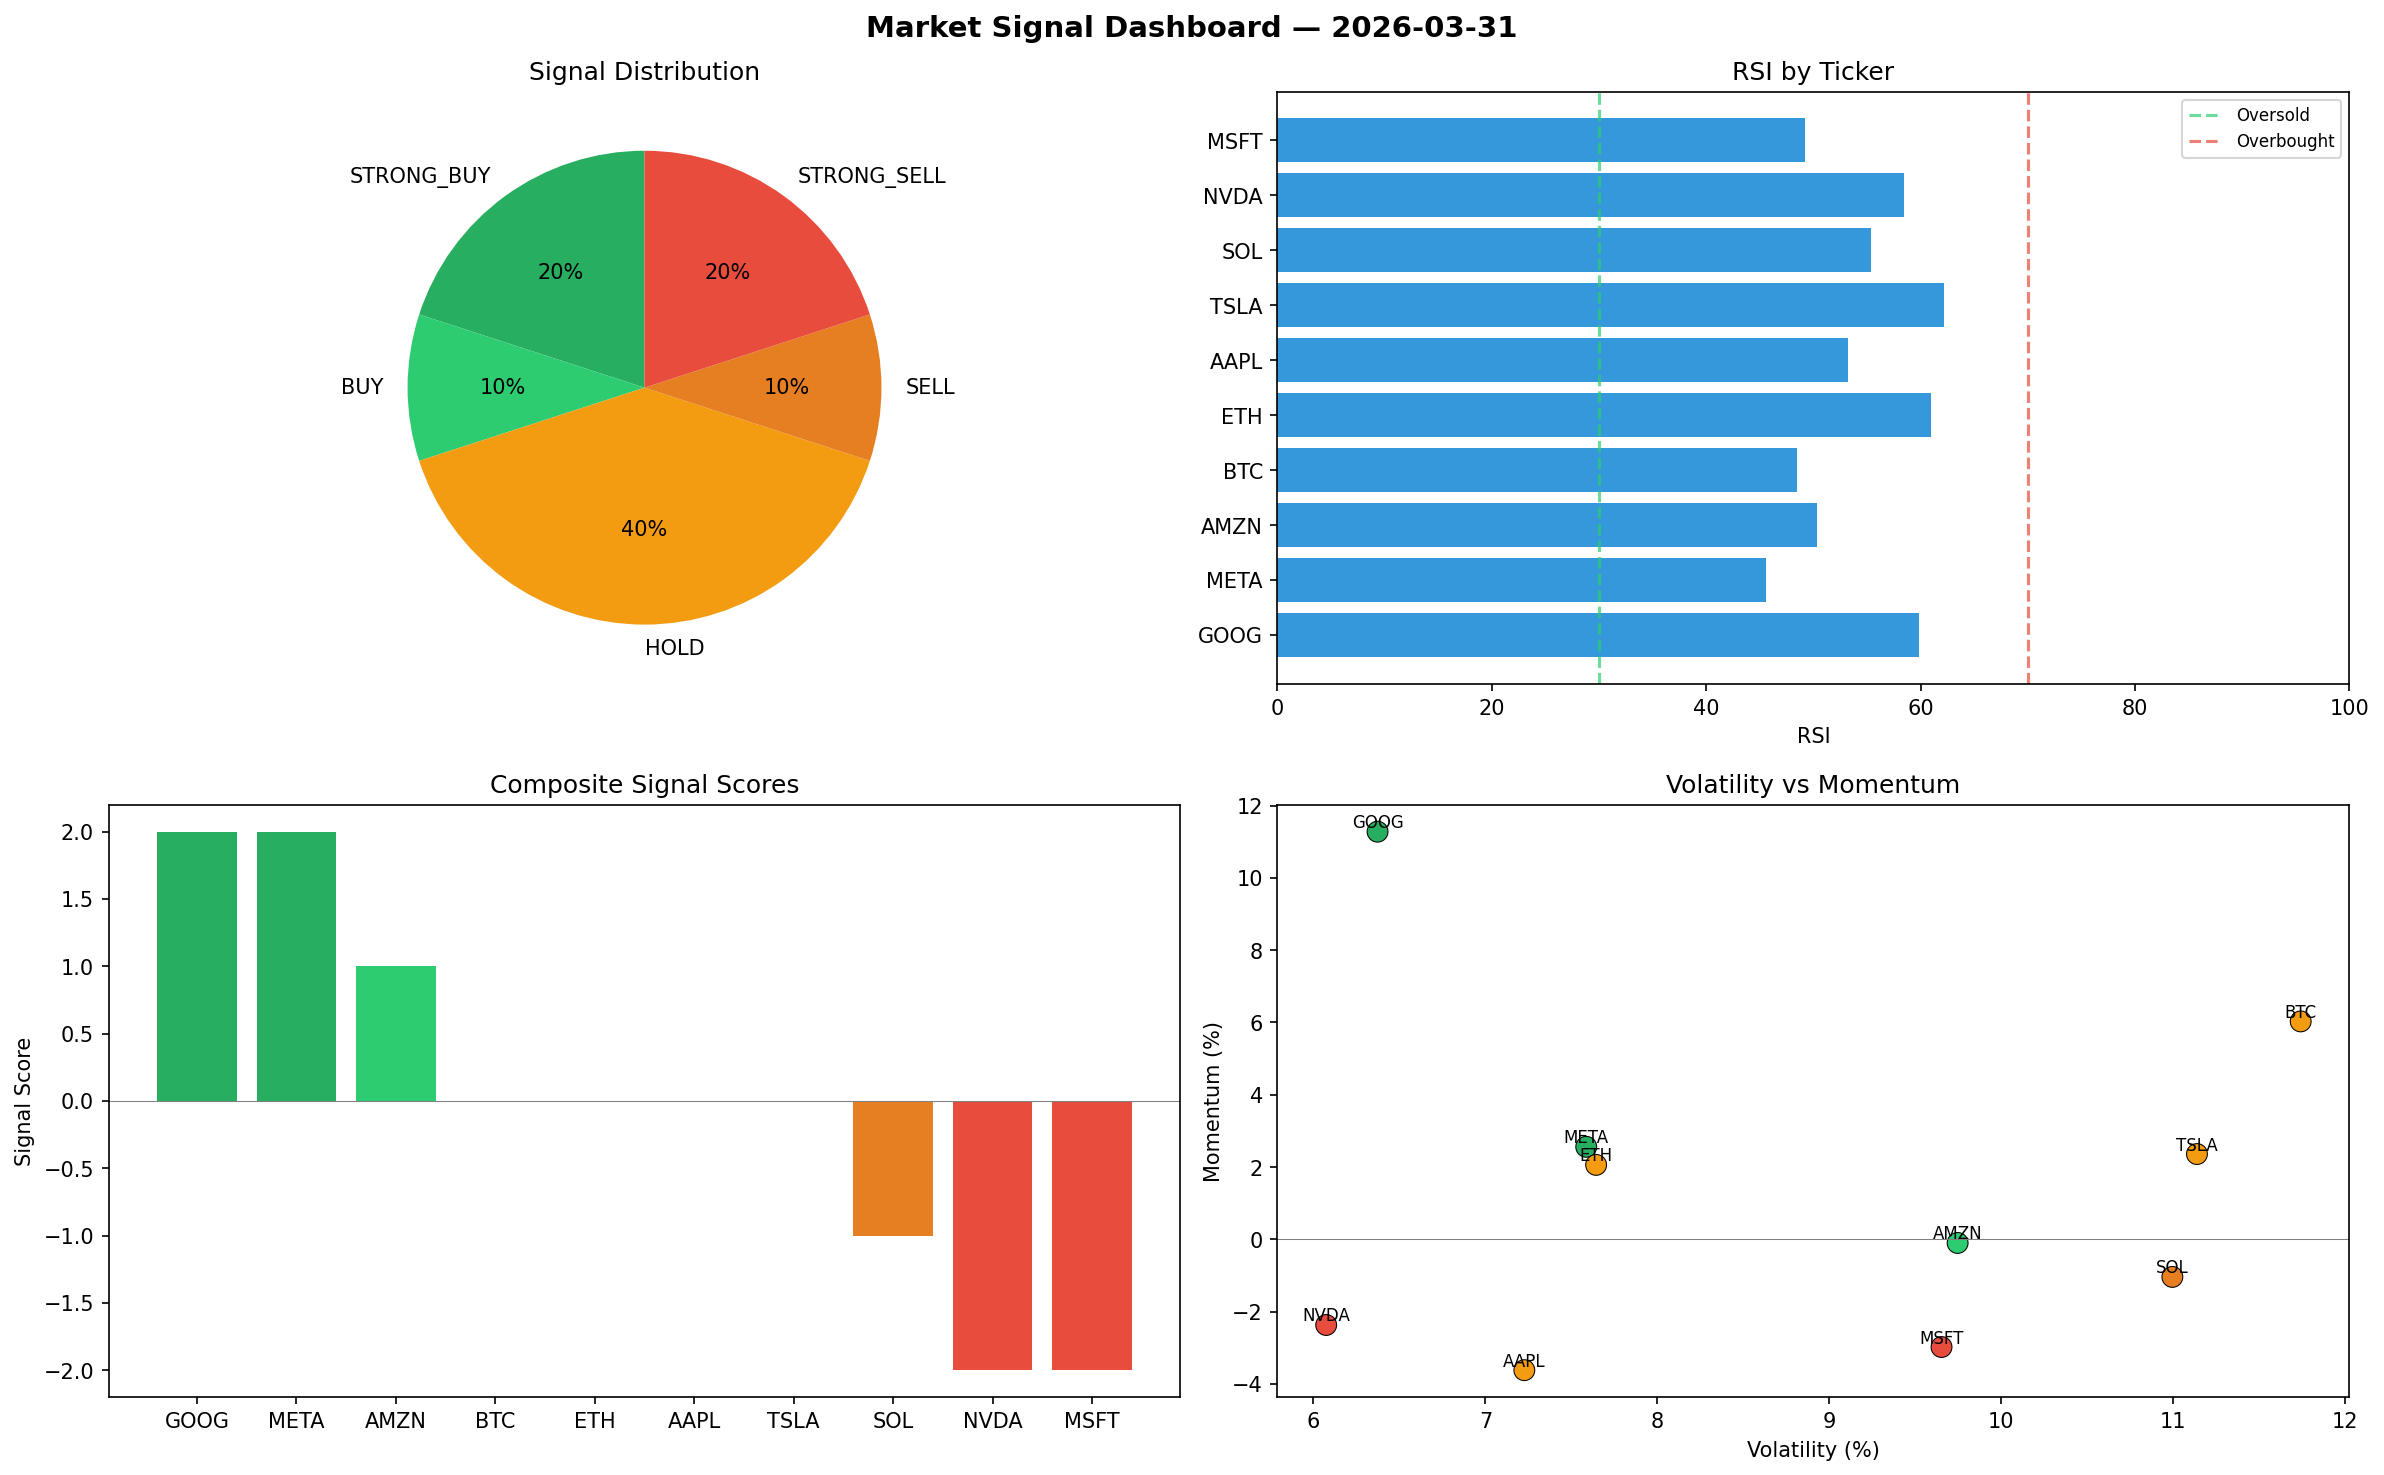
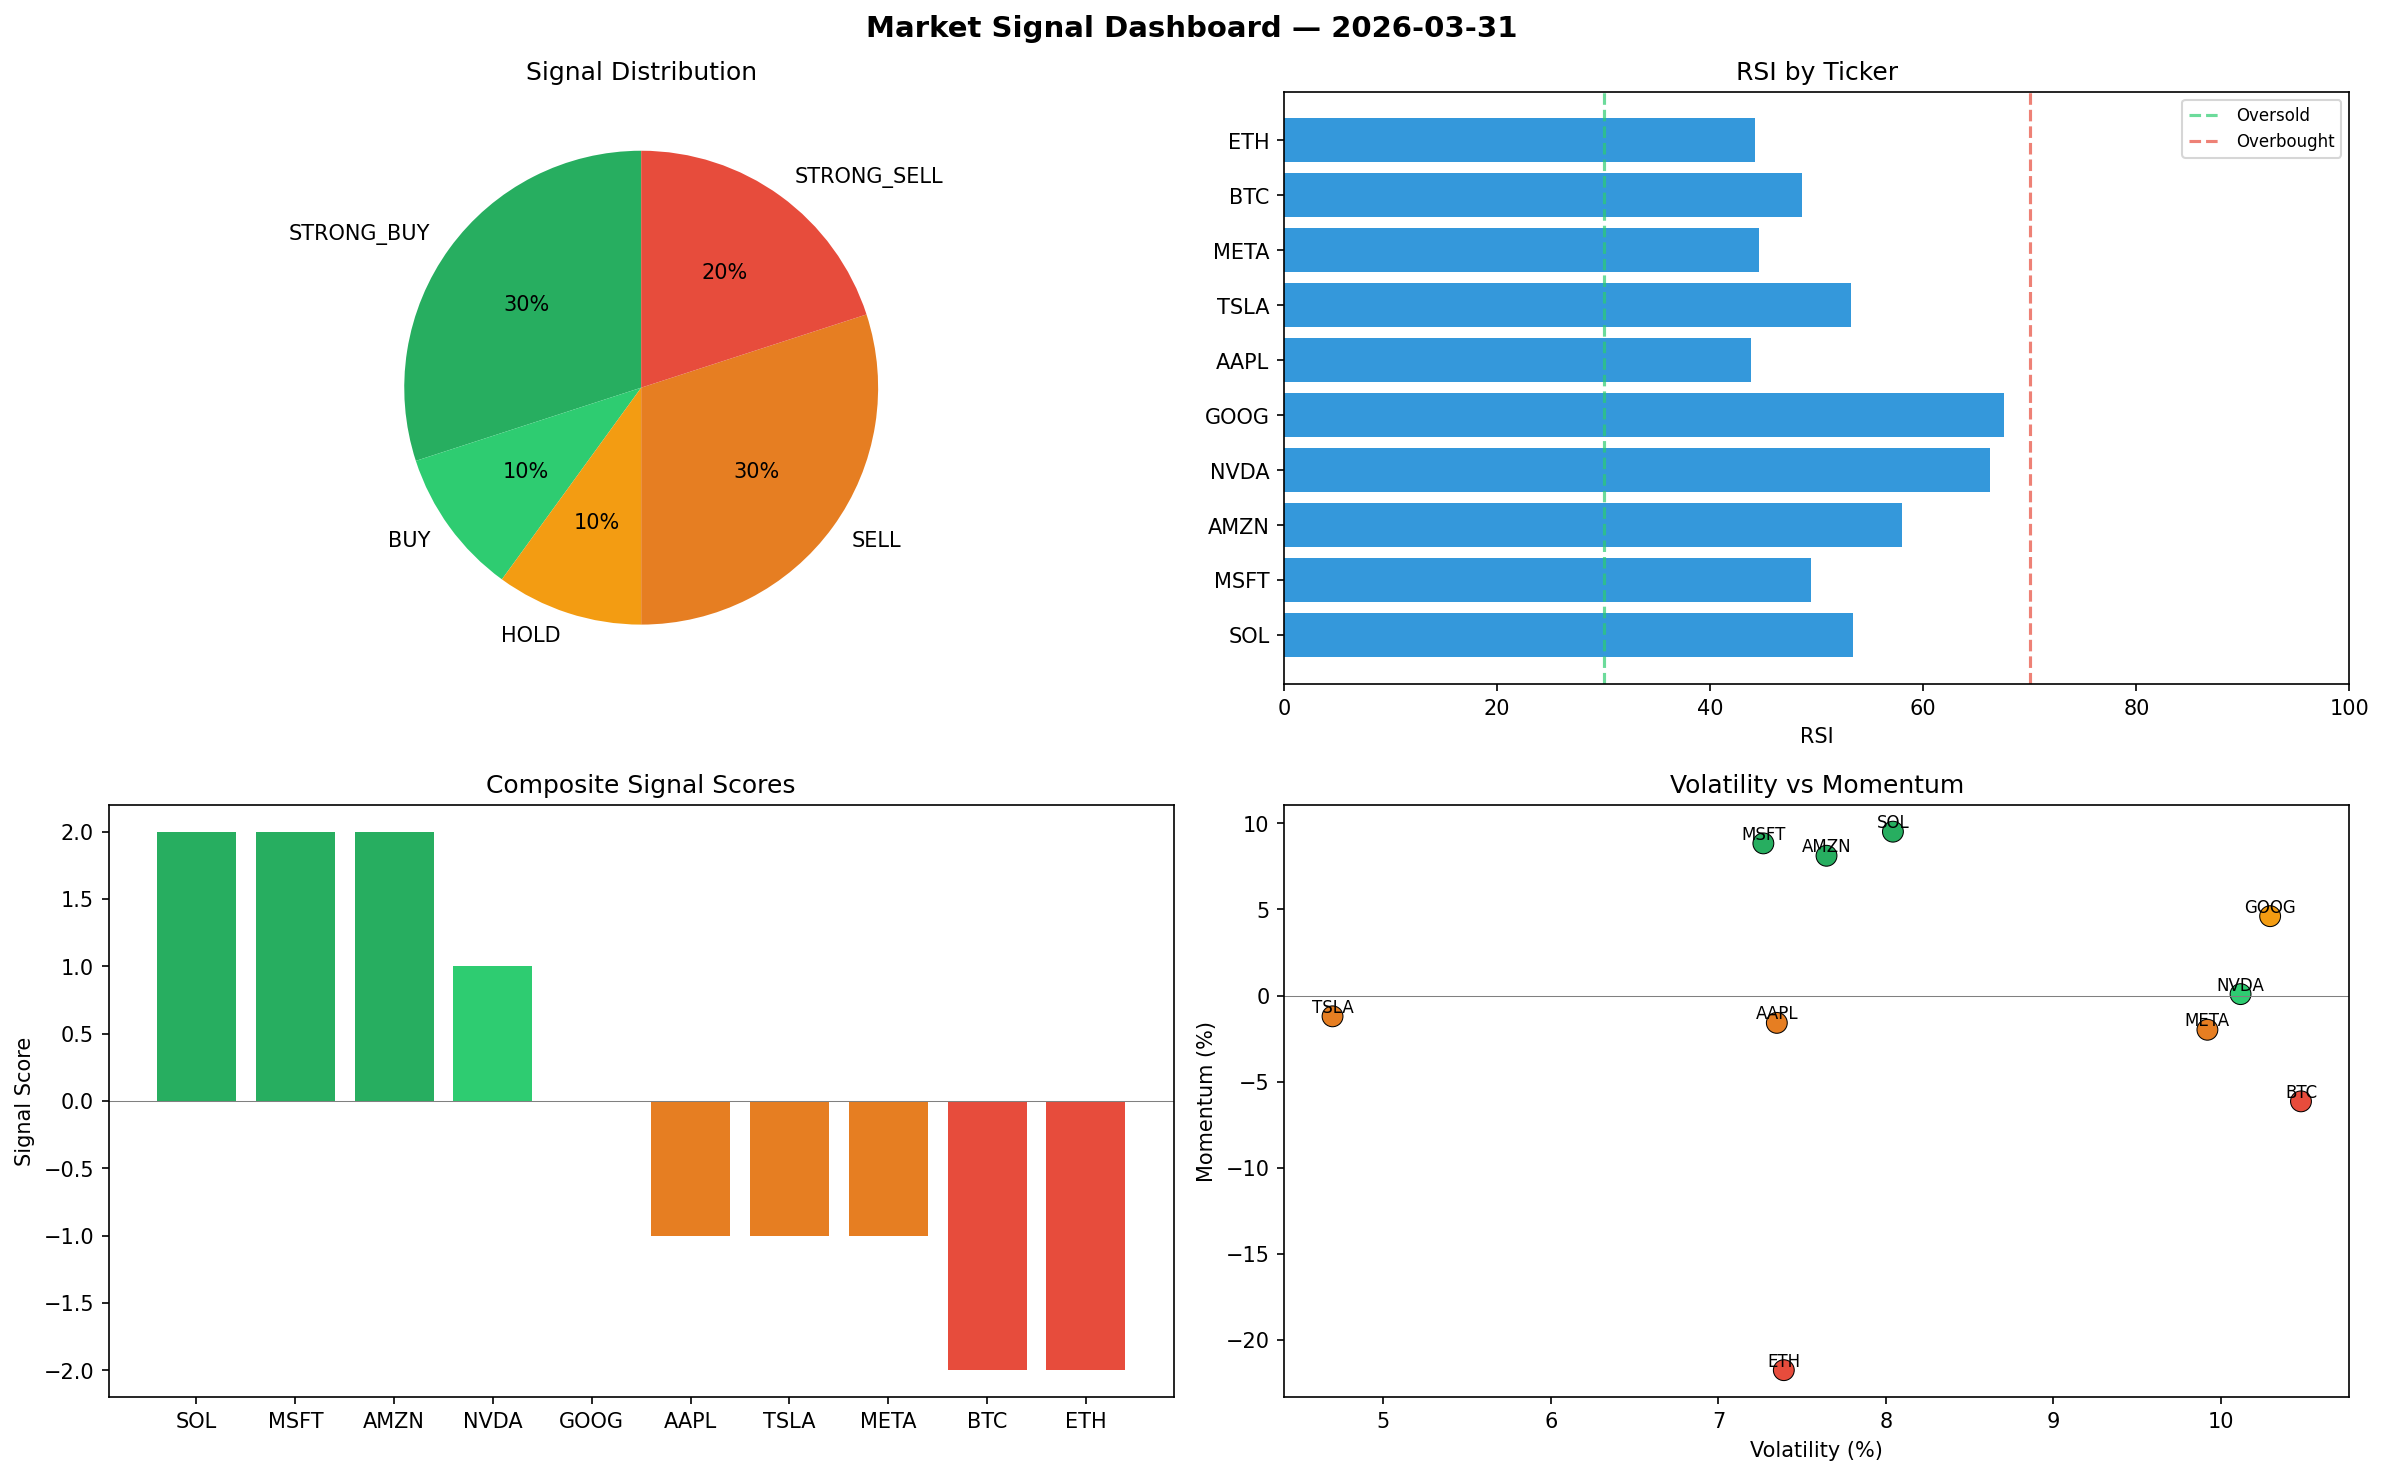
automated-bots: market signals 2026-03-31T15:46

diff --git a/logs/2026-03-31.md b/logs/2026-03-31.md
@@ -1,6 +1,6 @@
 # Market Signal Report — 2026-03-31
 
-**Run ID:** `3befc1c98a` | **Buy:** 3 | **Sell:** 3 | **Hold:** 4
+**Run ID:** `7e0c954d5f` | **Buy:** 4 | **Sell:** 5 | **Hold:** 1
 
 ![Dashboard](2026-03-31_dashboard.png)
 
@@ -8,28 +8,28 @@
 
 | Ticker | Price | Signal | Score | RSI | Momentum | Confidence |
 |--------|-------|--------|-------|-----|----------|------------|
-| GOOG | $3788.41 | **STRONG_BUY** | 2 | 59.88 | 0.1128 | 0.5 |
-| META | $916.06 | **STRONG_BUY** | 2 | 45.61 | 0.0256 | 0.5 |
-| AMZN | $2060.54 | **BUY** | 1 | 50.29 | -0.001 | 0.25 |
-| BTC | $2384.64 | **HOLD** | 0 | 48.51 | 0.0603 | 0.0 |
-| ETH | $3972.99 | **HOLD** | 0 | 60.98 | 0.0206 | 0.0 |
-| AAPL | $3617.92 | **HOLD** | 0 | 53.21 | -0.0362 | 0.0 |
-| TSLA | $691.7 | **HOLD** | 0 | 62.2 | 0.0236 | 0.0 |
-| SOL | $3602.44 | **SELL** | -1 | 55.41 | -0.0104 | 0.25 |
-| NVDA | $1367.89 | **STRONG_SELL** | -2 | 58.44 | -0.0237 | 0.5 |
-| MSFT | $773.79 | **STRONG_SELL** | -2 | 49.22 | -0.0298 | 0.5 |
+| SOL | $5450.66 | **STRONG_BUY** | 2 | 53.41 | 0.0952 | 0.5 |
+| MSFT | $919.82 | **STRONG_BUY** | 2 | 49.46 | 0.0884 | 0.5 |
+| AMZN | $3154.47 | **STRONG_BUY** | 2 | 57.98 | 0.0812 | 0.5 |
+| NVDA | $1783.75 | **BUY** | 1 | 66.22 | 0.0008 | 0.25 |
+| GOOG | $1620.73 | **HOLD** | 0 | 67.54 | 0.0461 | 0.0 |
+| AAPL | $1287.31 | **SELL** | -1 | 43.81 | -0.0159 | 0.25 |
+| TSLA | $4019.51 | **SELL** | -1 | 53.2 | -0.0121 | 0.25 |
+| META | $189.8 | **SELL** | -1 | 44.54 | -0.0199 | 0.25 |
+| BTC | $4051.01 | **STRONG_SELL** | -2 | 48.66 | -0.0615 | 0.5 |
+| ETH | $3941.35 | **STRONG_SELL** | -2 | 44.22 | -0.2177 | 0.5 |
 
 ## Delta vs Yesterday
 
 | Ticker | Today | Yesterday | Price Change | Signal Changed |
 |--------|-------|-----------|-------------|----------------|
-| GOOG | STRONG_BUY | STRONG_BUY | 📈 350.68% | — |
-| META | STRONG_BUY | STRONG_SELL | 📈 28.38% | ⚠ YES |
-| AMZN | BUY | STRONG_BUY | 📈 118.1% | ⚠ YES |
-| BTC | HOLD | STRONG_SELL | 📈 104.07% | ⚠ YES |
-| ETH | HOLD | BUY | 📈 75.86% | ⚠ YES |
-| AAPL | HOLD | HOLD | 📈 732.64% | — |
-| TSLA | HOLD | STRONG_SELL | 📉 -38.3% | ⚠ YES |
-| SOL | SELL | HOLD | 📈 121.71% | ⚠ YES |
-| NVDA | STRONG_SELL | SELL | 📈 20.04% | ⚠ YES |
-| MSFT | STRONG_SELL | STRONG_SELL | 📉 -12.9% | — |
+| SOL | STRONG_BUY | HOLD | 📈 235.46% | ⚠ YES |
+| MSFT | STRONG_BUY | STRONG_SELL | 📈 3.54% | ⚠ YES |
+| AMZN | STRONG_BUY | STRONG_BUY | 📈 233.88% | — |
+| NVDA | BUY | SELL | 📈 56.53% | ⚠ YES |
+| GOOG | HOLD | STRONG_BUY | 📈 92.81% | ⚠ YES |
+| AAPL | SELL | HOLD | 📈 196.27% | ⚠ YES |
+| TSLA | SELL | STRONG_SELL | 📈 258.57% | ⚠ YES |
+| META | SELL | STRONG_SELL | 📉 -73.4% | ⚠ YES |
+| BTC | STRONG_SELL | STRONG_SELL | 📈 246.67% | — |
+| ETH | STRONG_SELL | BUY | 📈 74.46% | ⚠ YES |
